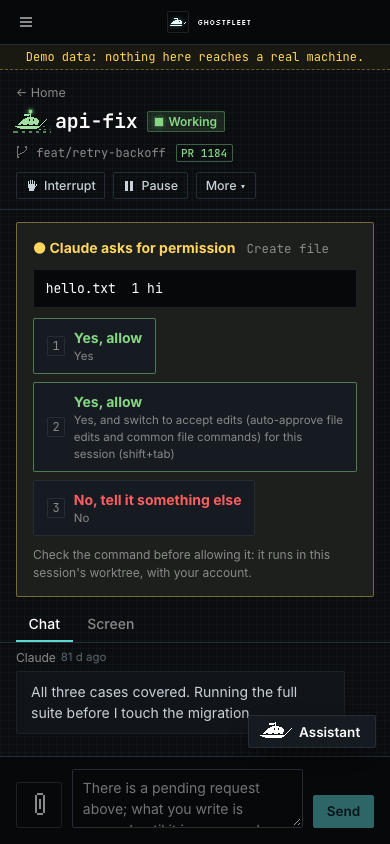
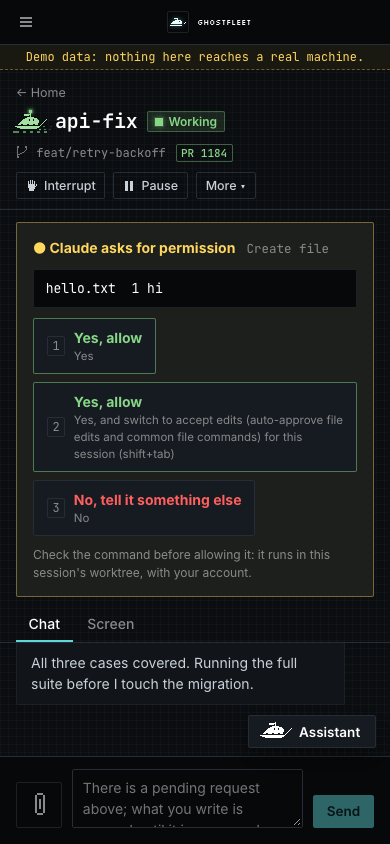
A chat at its end stays there, and a project's header keeps its height as its data lands
The macOS terminal rows. The project page draws the lead's button (start, wake, resume or reopen
it) once the grid answers, and on a phone that pushed the header's actions onto a second line, 49
px under the finger. term-check reads the Terminal tab's centre and then touches it; when the grid
landed between the two, the touch hit "Start the lead". The authenticator signed once more than
the row allows, a verb reached the daemon, the terminal never opened, and a later lookup threw on
null, which is every row of the group red on CI's Mac. It reproduced here one run in six. Showing
the lead's button between the read and the touch made it red on the old layout, row for row as on
CI, and green on the new one, 171 of 171, with term-check itself unchanged. A person tapping
Terminal while a project loads started the lead the same way. On a phone the actions now always
have a line of their own, and at 360 px and under the buttons' sides narrow, because the longest
pair, "Despertar al líder" and "Nueva sesión", is 298 px against a 288 px line at 320.

The chat. It went to its end when a message arrived and at no other time, and its end moves
without one: the box shrinks when a permission card or a keyboard comes up, and a message grows
when its font lands. Opened cold on a session under a permission card at 390x844, as a
notification opens one, it sat 29 px short in four opens of four, the newest message's last line
[…]

Changed region(s): [[0.0615, 0.7701, 0.7692, 0.8626]]

diff --git a/web/ui/session.jsx b/web/ui/session.jsx
@@ -117,12 +117,36 @@ function Chat({ page, queued, older, onOlder, onRetryOlder, onStep }) {
   const author = useSlot('author');
   const ref = useRef(null);
   const stick = useRef(true);
+  const ours = useRef(-1);            // the scrollTop this chat last set itself (below)
   const anchor = useRef(null);
   const swipe = useRef(null);
   const msgs = page.messages || [];
   const rows = keyed(msgs);
   const last = rows.length ? rows[rows.length - 1][0] : '';
-  useEffect(() => { const n = ref.current; if (n && stick.current) n.scrollTop = n.scrollHeight; }, [last, queued.length]);
+  const toEnd = (n) => { n.scrollTop = n.scrollHeight; ours.current = n.scrollTop; };
+  useEffect(() => { const n = ref.current; if (n && stick.current) toEnd(n); }, [last, queued.length]);
+  // A CHAT AT ITS END STAYS AT ITS END. It jumped there when a message arrived, and its end moves
+  // without one: the box shrinks when a permission card or a keyboard comes up, and a message grows
+  // when its font lands. Under a permission card at 390x844 it sat 29 px short as opened, and the
+  // newest message's last line lay under the Assistant button, the room left for that button being
+  // at the very end. So the box and every row in it are watched, and while the reader is at the end
+  // (`stick`) a change of size takes it back there. Not a tools row, which grows because the reader
+  // opened it, and not while older messages land above (`anchor`).
+  //   `stick` is the READER's: the browser sends the scroll event for a jump the chat made itself a
+  // frame later, measured against whatever the box is by then, and a card drawn in that frame read
+  // as the reader leaving the end, 415 px up, after which nothing took the chat back. A scroll that
+  // lands where the chat put it (`ours`) leaves `stick` as it was.
+  useLayoutEffect(() => {
+    const box = ref.current;
+    if (!box || typeof ResizeObserver === 'undefined') return;
+    const seen = new WeakSet();
+    const ro = new ResizeObserver(() => { if (stick.current && !anchor.current) toEnd(box); });
+    const watch = () => { for (const c of [box, ...box.children]) if (!seen.has(c) && c.tagName !== 'DETAILS') { seen.add(c); ro.observe(c); } };
+    watch();
+    const mo = new MutationObserver(watch);
+    mo.observe(box, { childList: true });
+    return () => { ro.disconnect(); mo.disconnect(); };
+  }, []);
   const measure = () => {
     const box = ref.current; if (!box) return;
     const top = box.getBoundingClientRect().top;
@@ -156,7 +180,11 @@ function Chat({ page, queued, older, onOlder, onRetryOlder, onStep }) {
   };
   return (
     <div class="chat" ref={ref} data-keep-scroll="chat" onPointerDown={down} onPointerUp={up} onPointerCancel={() => { swipe.current = null; }}
-         onScroll={(e) => { const n = e.currentTarget; stick.current = n.scrollHeight - n.scrollTop - n.clientHeight < 60; nearTop(n); }}>
+         onScroll={(e) => {
+           const n = e.currentTarget;
+           if (Math.abs(n.scrollTop - ours.current) > 1) { ours.current = -1; stick.current = n.scrollHeight - n.scrollTop - n.clientHeight < 60; }
+           nearTop(n);
+         }}>
       {page.next_before
         ? (older.busy ? <p class="older muted center" role="status">{t('chat.olderLoading')}</p>
           : older.err ? <div class="older center"><span class="muted">{t('chat.olderFailed', { why: older.err })}</span>

diff --git a/web/phone.js b/web/phone.js
@@ -5603,15 +5603,41 @@ function Chat({ page, queued, older, onOlder, onRetryOlder, onStep }) {
 	const author = useSlot("author");
 	const ref = A(null);
 	const stick = A(true);
+	const ours = A(-1);
 	const anchor = A(null);
 	const swipe = A(null);
 	const msgs = page.messages || [];
 	const rows = keyed(msgs);
 	const last = rows.length ? rows[rows.length - 1][0] : "";
+	const toEnd = (n) => {
+		n.scrollTop = n.scrollHeight;
+		ours.current = n.scrollTop;
+	};
 	h(() => {
 		const n = ref.current;
-		if (n && stick.current) n.scrollTop = n.scrollHeight;
+		if (n && stick.current) toEnd(n);
 	}, [last, queued.length]);
+	_(() => {
+		const box = ref.current;
+		if (!box || typeof ResizeObserver === "undefined") return;
+		const seen = /* @__PURE__ */ new WeakSet();
+		const ro = new ResizeObserver(() => {
+			if (stick.current && !anchor.current) toEnd(box);
+		});
+		const watch = () => {
+			for (const c of [box, ...box.children]) if (!seen.has(c) && c.tagName !== "DETAILS") {
+				seen.add(c);
+				ro.observe(c);
+			}
+		};
+		watch();
+		const mo = new MutationObserver(watch);
+		mo.observe(box, { childList: true });
+		return () => {
+			ro.disconnect();
+			mo.disconnect();
+		};
+	}, []);
 	const measure = () => {
 		const box = ref.current;
 		if (!box) return;
@@ -5669,7 +5695,10 @@ function Chat({ page, queued, older, onOlder, onRetryOlder, onStep }) {
 		},
 		onScroll: (e) => {
 			const n = e.currentTarget;
-			stick.current = n.scrollHeight - n.scrollTop - n.clientHeight < 60;
+			if (Math.abs(n.scrollTop - ours.current) > 1) {
+				ours.current = -1;
+				stick.current = n.scrollHeight - n.scrollTop - n.clientHeight < 60;
+			}
 			nearTop(n);
 		},
 		children: [
@@ -6683,7 +6712,7 @@ function ProjectView({ project, session, tool = null }) {
 	};
 	const termWhy = typeof fleet.termWhy === "function" ? fleet.termWhy(project) : "";
 	const header = /* @__PURE__ */ u("header", {
-		class: "page-head",
+		class: "page-head proj-head",
 		children: [/* @__PURE__ */ u("div", { children: [
 			/* @__PURE__ */ u("h1", {
 				class: "name",

diff --git a/web/phone.css b/web/phone.css
@@ -477,6 +477,14 @@ textarea { resize: vertical; }
 .page.narrow { max-width: 760px; }
 .page-head { display: flex; align-items: flex-end; justify-content: space-between; gap: 16px; margin-bottom: 18px; flex-wrap: wrap; }
 .page-head p { margin: 4px 0 0; }
+/* A PROJECT'S HEADER IS ONE HEIGHT BEFORE AND AFTER ITS DATA. The lead's button (start, wake, resume
+ * or reopen it) is drawn once the project's grid answers, and on a phone it pushed the actions onto
+ * a second line: the header grew 49 px under the finger, and a tap aimed at the Terminal tab below
+ * landed on "Start the lead", which asks for the passkey and starts an agent. So on a phone the
+ * actions always have a line of their own, and at 360 and under their sides narrow: the longest
+ * pair, "Despertar al líder" and "Nueva sesión", is 298 px against a 288 px line at 320. */
+@media (max-width: 900px) { .proj-head > .row { flex-basis: 100%; } }
+@media (max-width: 360px) { .proj-head > .row > .btn { padding-left: .6em; padding-right: .6em; } }
 .chips { display: flex; gap: 6px; flex-wrap: wrap; margin-bottom: 18px; }
 .chips button { background: transparent; border: 1px solid var(--line); border-radius: var(--r); padding: .3em .85em; cursor: pointer; color: var(--dim); font-size: 13px; }
 .chips button b { color: var(--fg); font-weight: 600; margin-left: .25em; }

diff --git a/web/ui/ui.css b/web/ui/ui.css
@@ -166,6 +166,14 @@ textarea { resize: vertical; }
 .page.narrow { max-width: 760px; }
 .page-head { display: flex; align-items: flex-end; justify-content: space-between; gap: 16px; margin-bottom: 18px; flex-wrap: wrap; }
 .page-head p { margin: 4px 0 0; }
+/* A PROJECT'S HEADER IS ONE HEIGHT BEFORE AND AFTER ITS DATA. The lead's button (start, wake, resume
+ * or reopen it) is drawn once the project's grid answers, and on a phone it pushed the actions onto
+ * a second line: the header grew 49 px under the finger, and a tap aimed at the Terminal tab below
+ * landed on "Start the lead", which asks for the passkey and starts an agent. So on a phone the
+ * actions always have a line of their own, and at 360 and under their sides narrow: the longest
+ * pair, "Despertar al líder" and "Nueva sesión", is 298 px against a 288 px line at 320. */
+@media (max-width: 900px) { .proj-head > .row { flex-basis: 100%; } }
+@media (max-width: 360px) { .proj-head > .row > .btn { padding-left: .6em; padding-right: .6em; } }
 .chips { display: flex; gap: 6px; flex-wrap: wrap; margin-bottom: 18px; }
 .chips button { background: transparent; border: 1px solid var(--line); border-radius: var(--r); padding: .3em .85em; cursor: pointer; color: var(--dim); font-size: 13px; }
 .chips button b { color: var(--fg); font-weight: 600; margin-left: .25em; }

diff --git a/web/sw.js b/web/sw.js
@@ -83,7 +83,7 @@
 // still shows a fixture fleet with no way to enrol. That is indistinguishable from the fix
 // not working. A new name means install() refetches the shell and activate() drops the old
 // cache, so the next open runs the new code.
-// CLIENT-HASH: 44ccf2c17391
+// CLIENT-HASH: cfa470bfaa2b
 // ...pinned to the bytes of everything precached below (test/helpers/pwa-check.mjs). Change
 // any of them and the suite goes red with the hash to paste here — which is the moment to
 // bump VERSION, so the two can never drift apart again.

diff --git a/web/ui/project.jsx b/web/ui/project.jsx
@@ -148,7 +148,7 @@ export function ProjectView({ project, session, tool = null }) {
   };
   const termWhy = typeof fleet.termWhy === 'function' ? fleet.termWhy(project) : '';
   const header = (
-    <header class="page-head">
+    <header class="page-head proj-head">
       <div>
         <h1 class="name"><ProjectName name={project} /></h1>
         <p class="muted">{g ? `${t('project.sessions', { n: g.cards.length })} · ${t('project.freeWts', { n: g.free_worktrees?.length || 0 })}` : t('common.loading')}</p>
